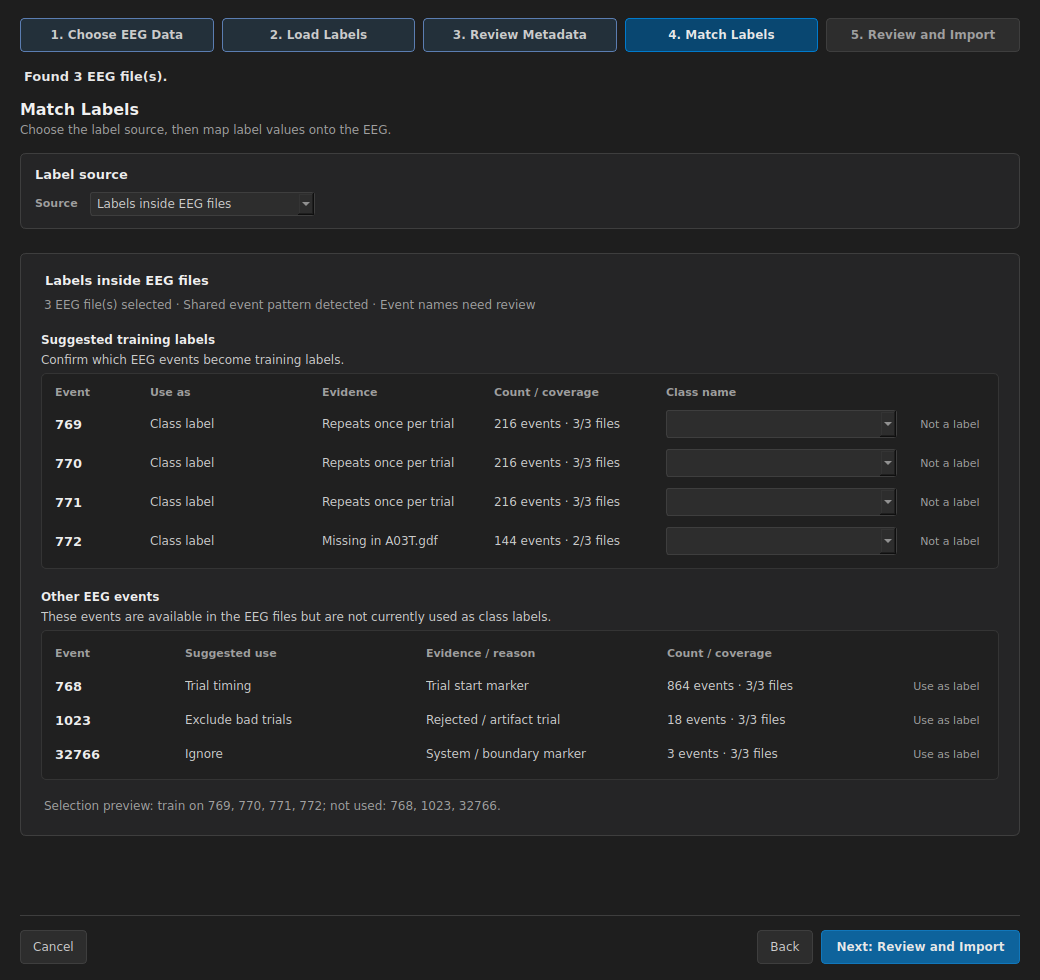
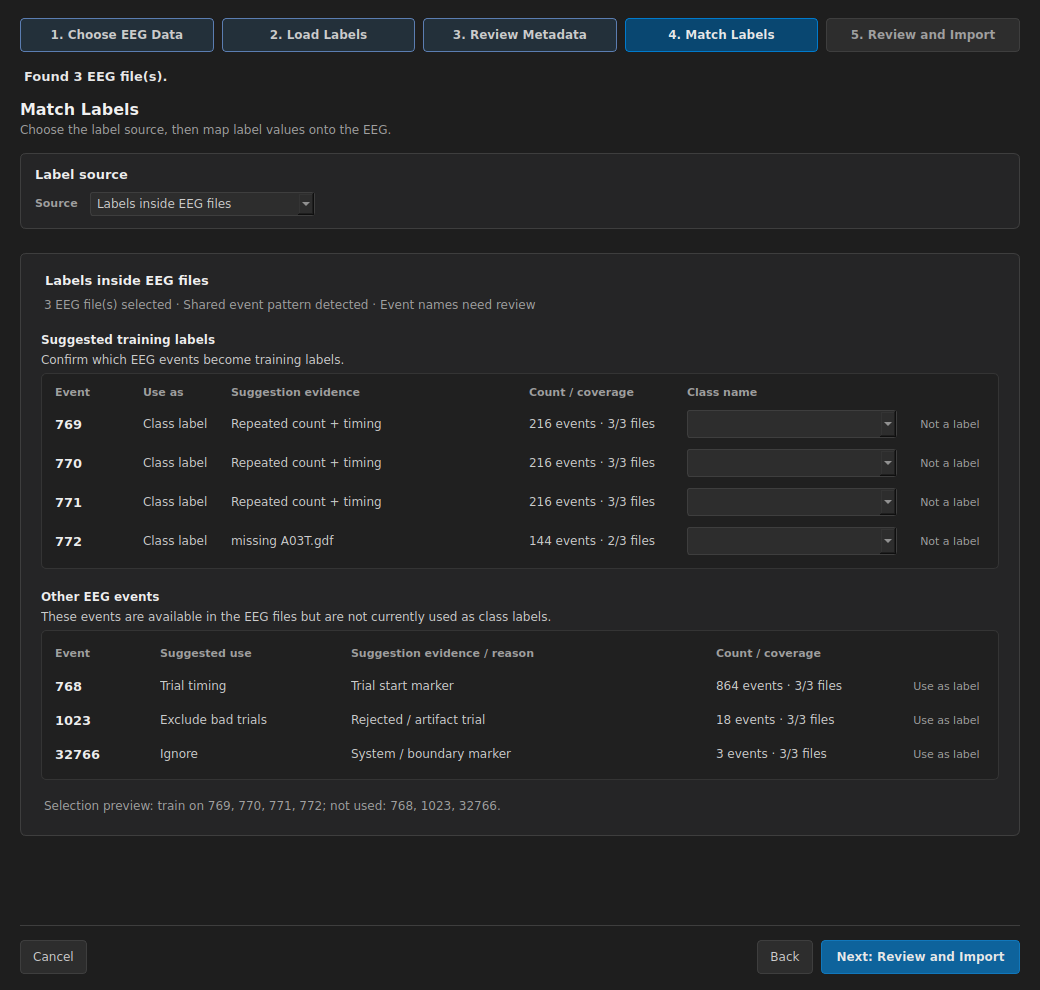
fix: label internal event suggestion evidence

diff --git a/XBrainLab/ui/dialogs/dataset/data_interpretation_preview_dialog.py b/XBrainLab/ui/dialogs/dataset/data_interpretation_preview_dialog.py
@@ -1221,7 +1221,7 @@ class DataInterpretationPreviewDialog(BaseDialog):
         headers = [
             "Event",
             "Suggested use",
-            "Suggestion / reason",
+            "Suggestion evidence / reason",
             "Count / coverage",
             "",
         ]

diff --git a/tests/unit/ui/dialogs/dataset/test_data_interpretation_preview_dialog.py b/tests/unit/ui/dialogs/dataset/test_data_interpretation_preview_dialog.py
@@ -752,8 +752,10 @@ def test_match_labels_internal_source_uses_task_panel_for_suggested_events(qtbot
         if label.text().strip()
     )
     assert "Suggested training labels" in visible_text
+    assert "Suggestion evidence" in visible_text
     assert "Use this when class labels are stored as EEG events." not in visible_text
     assert "Other EEG events" in visible_text
+    assert "Suggestion evidence / reason" in visible_text
     assert "not currently used as class labels" in visible_text
     assert "Selection preview: train on 769, 770" in visible_text
     assert "not used: 768, 1023" in visible_text